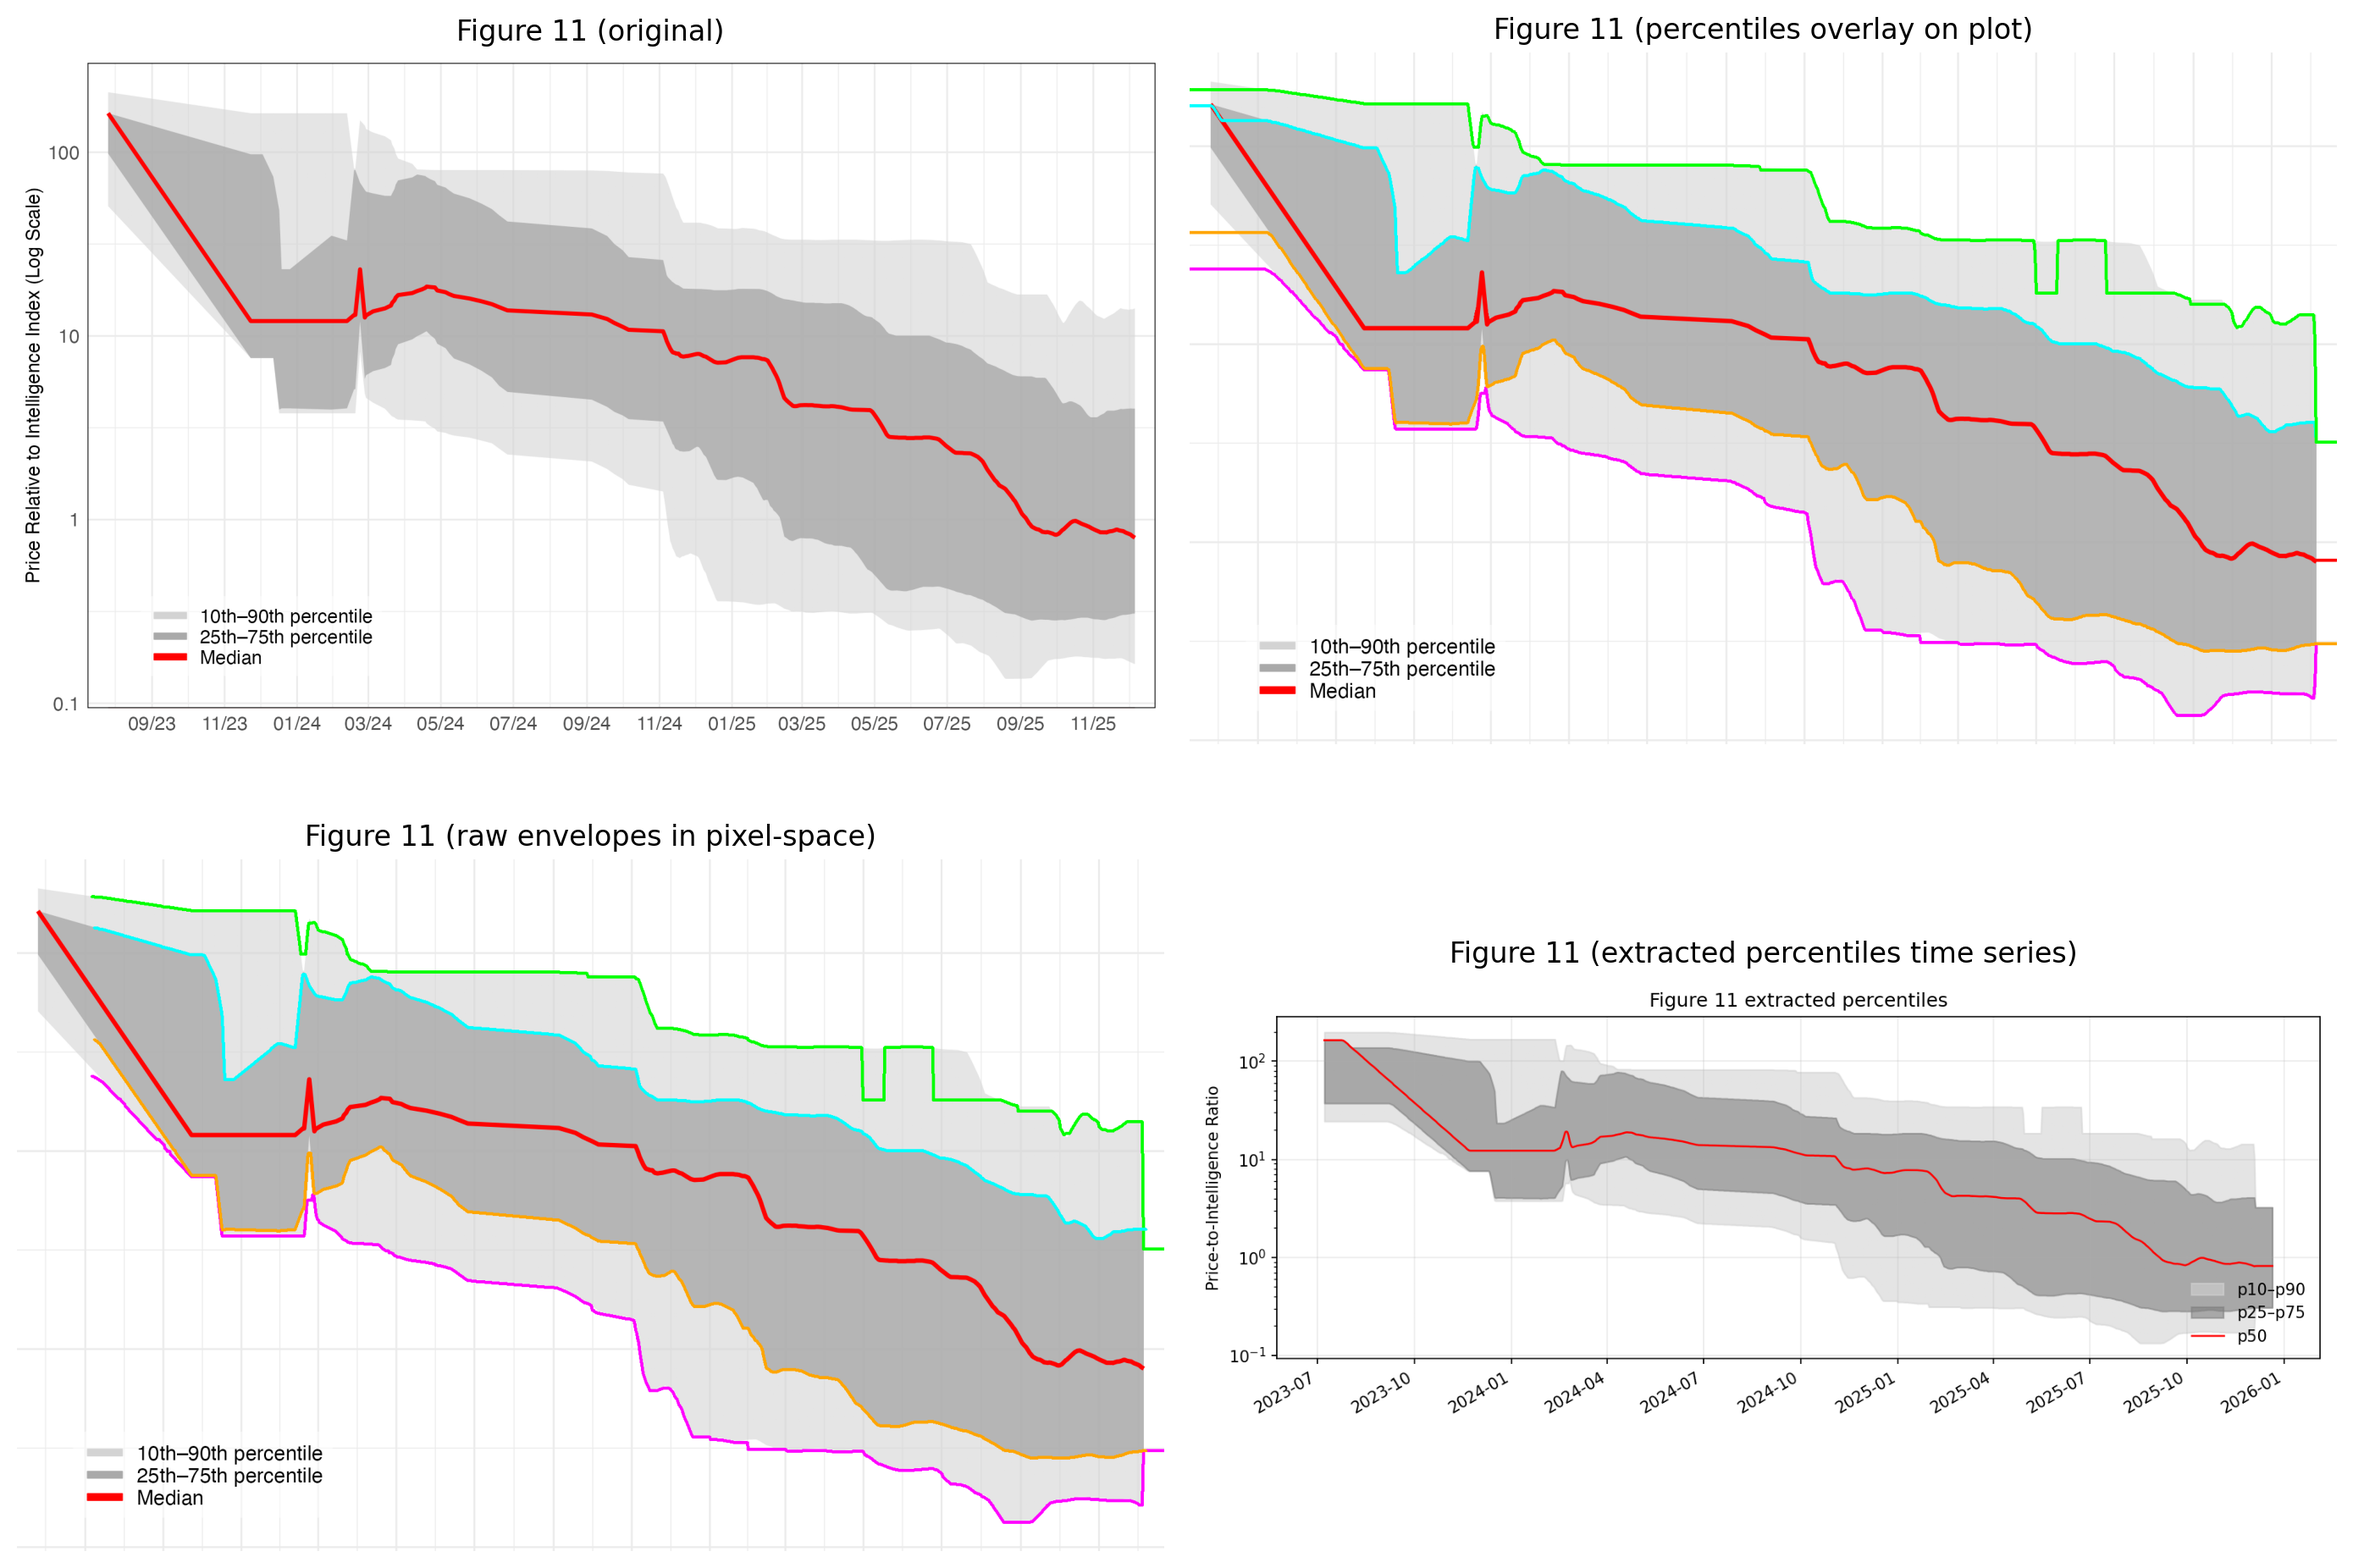
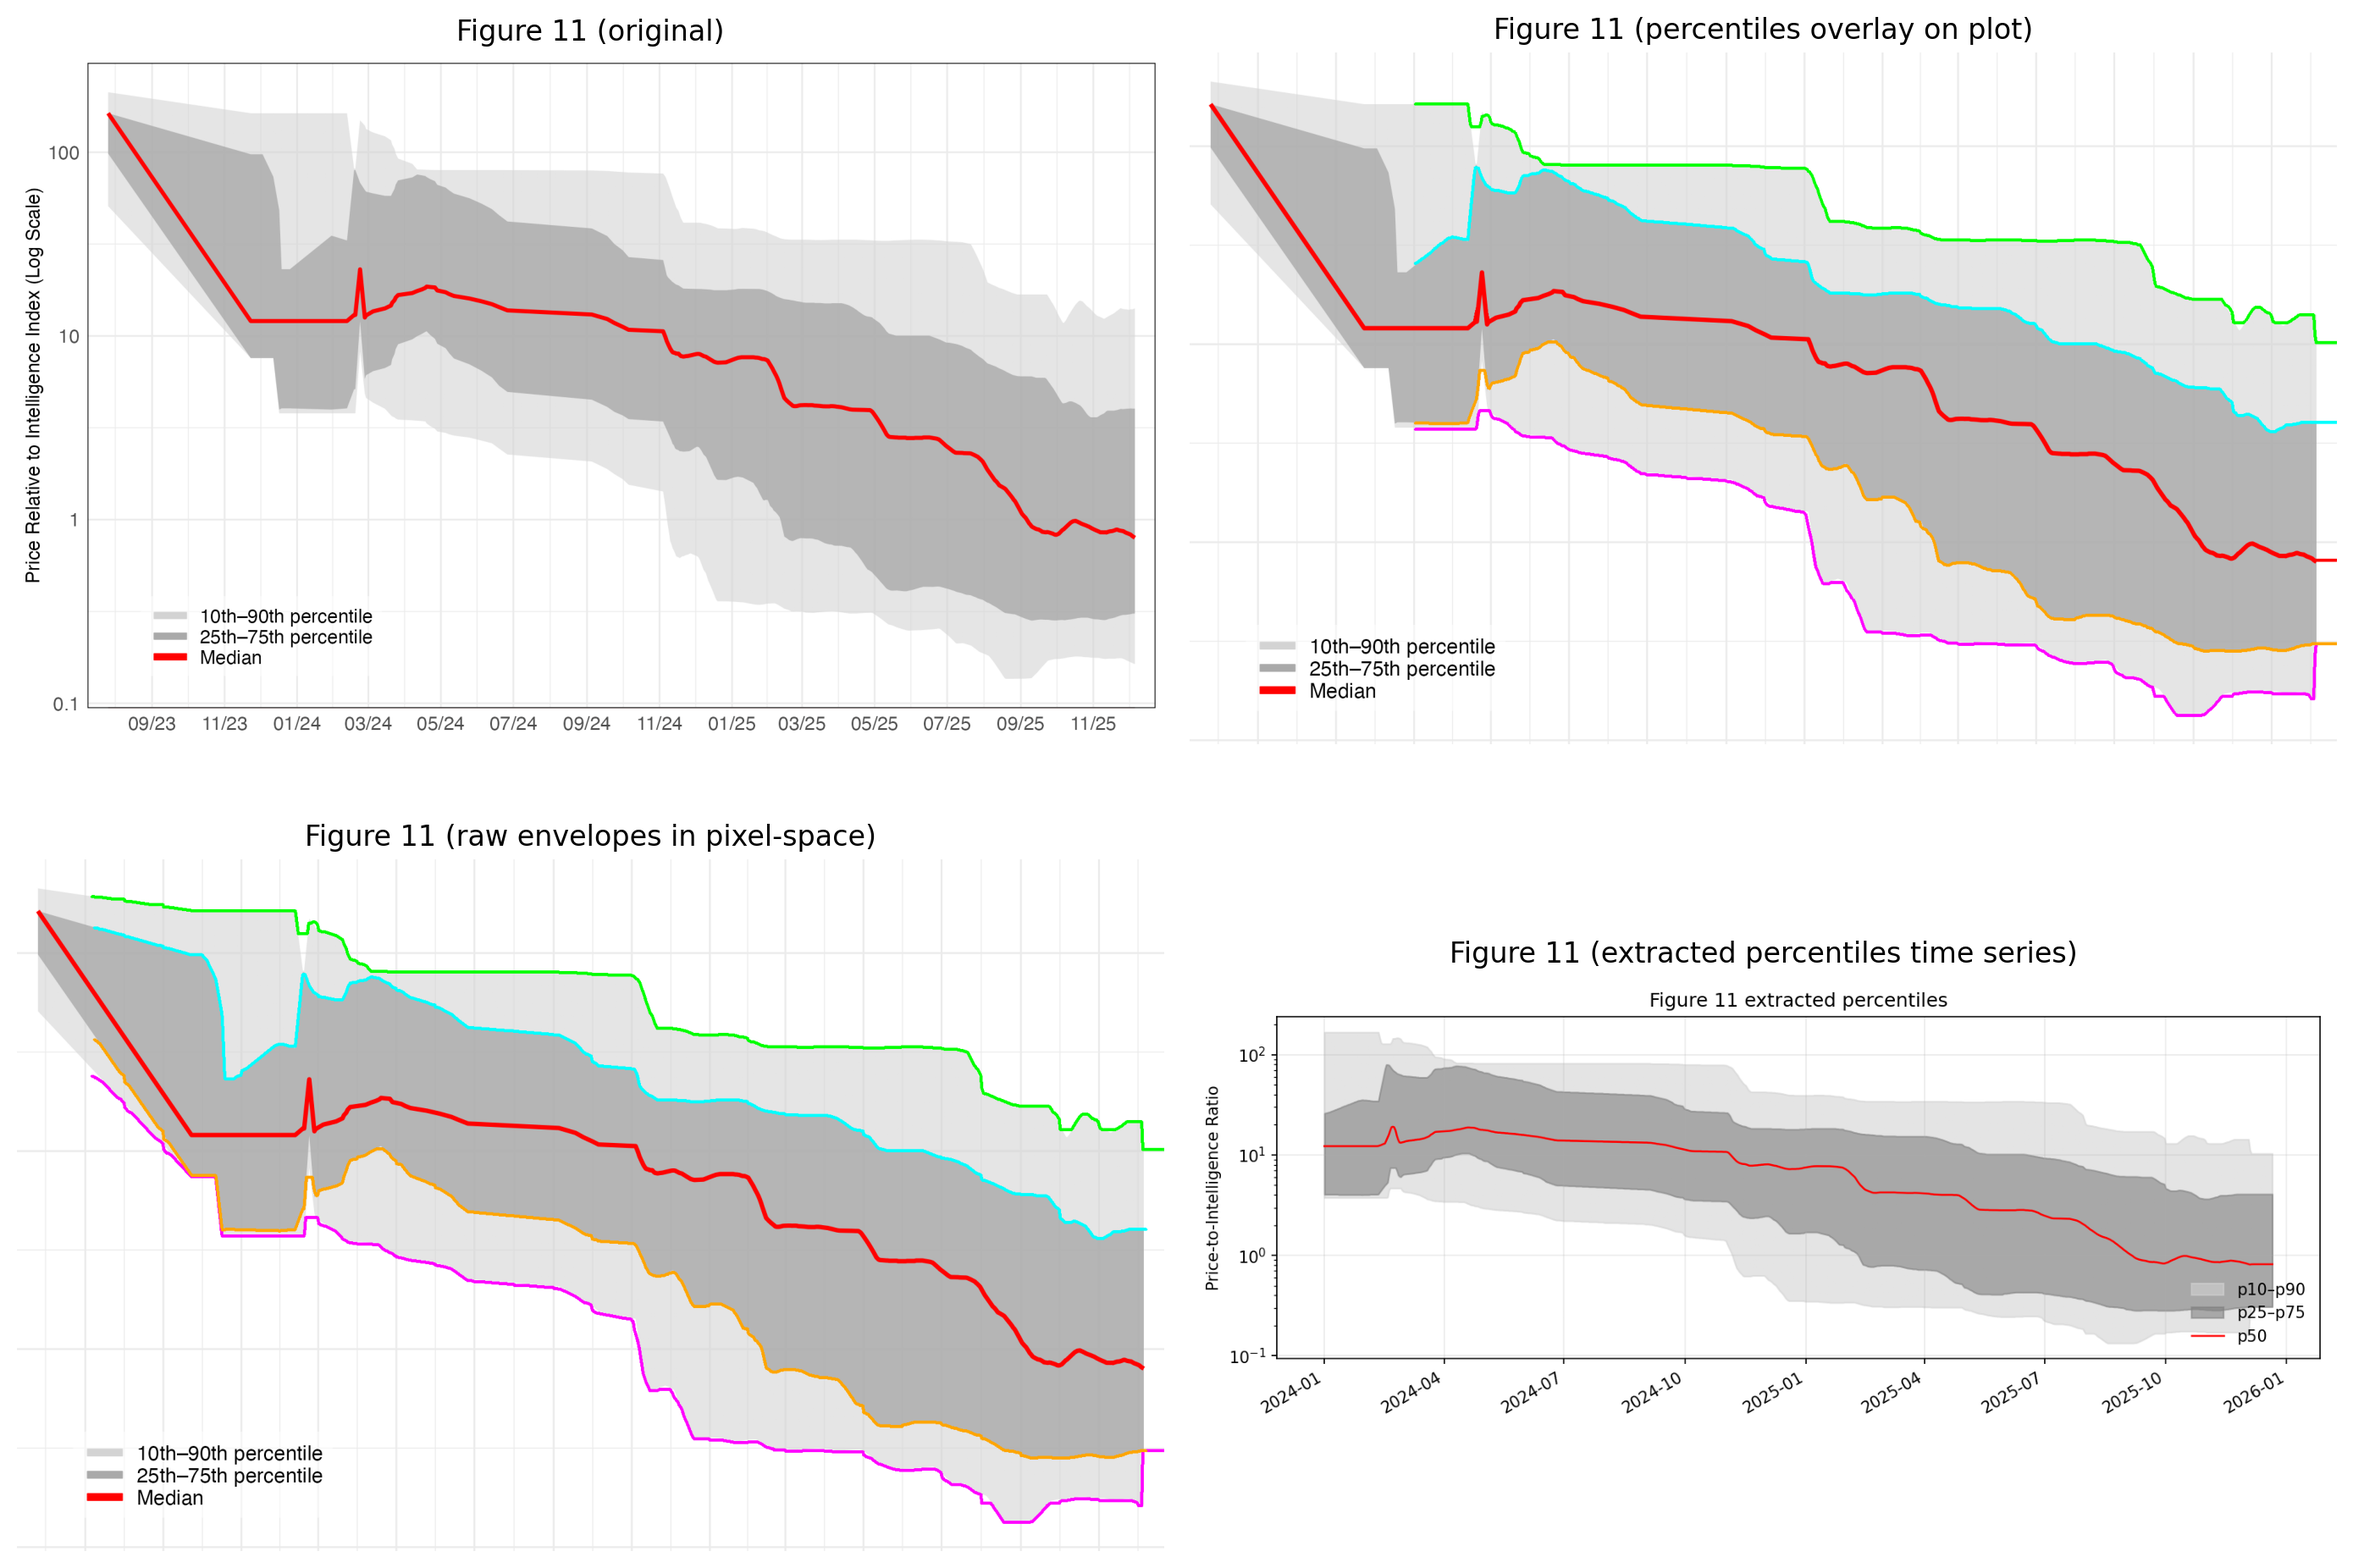
Add run_pipeline.sh to regenerate all outputs from PDF
- Single entrypoint script that runs the full extraction and analysis pipeline
- Extracts figures 5, 6, 11, 15 with diagnostics
- Runs verification for figures 11 and 15
- Generates all derived outputs (model age, capability age, robustness)
- Creates comparison grids
- Update README to center the pipeline script
- Remove one-off debug images not generated by pipeline

🤖 Generated with [Claude Code](https://claude.com/claude-code)

diff --git a/README.md b/README.md
@@ -21,30 +21,36 @@ Dependencies are also listed in `pyproject.toml`.
 
 ## Quick start
 
-Figure 15 red median (token-weighted intelligence median):
+**Run the full pipeline** to regenerate all outputs from the PDF:
 
 ```bash
-source .venv/bin/activate
-python extract_figure15_red_timeseries.py --figure 15 --pdf LLM_Demand.pdf --outdir out
-python verify_figure15_percentiles.py --pdf LLM_Demand.pdf --outdir out
+./run_pipeline.sh
 ```
 
-Figure 11 percentiles (price-to-intelligence ratio, log y-axis):
+This extracts all figures (5, 6, 11, 15), runs verification, and generates all derived outputs including the main capability age plot. Outputs go to `out/`.
 
+Options: `--pdf PATH` (default: `LLM_Demand.pdf`), `--outdir PATH` (default: `out`), `--python PATH` (default: `.venv/bin/python`).
+
+### Individual steps
+
+Figure 15 percentiles:
 ```bash
-source .venv/bin/activate
-python extract_figure15_red_timeseries.py --figure 11 --pdf LLM_Demand.pdf --outdir out --percentiles
-python verify_figure11_percentiles.py --pdf LLM_Demand.pdf --outdir out
+.venv/bin/python extract_figure15_red_timeseries.py --figure 15 --percentiles
+.venv/bin/python verify_figure15_percentiles.py
 ```
 
-Note: Figure 11’s pre-2024 region is not reliably extractable from the embedded raster; the script
-therefore hard-cuts the exported Figure 11 percentile time series to start at `2024-01-01` (01/24).
+Figure 11 percentiles:
+```bash
+.venv/bin/python extract_figure15_red_timeseries.py --figure 11 --percentiles
+.venv/bin/python verify_figure11_percentiles.py
+```
 
-Run regression/sanity checks (keeps Figure 15 behavior from breaking as Figure 11 logic evolves):
+Note: Figure 11's pre-2024 region is not reliably extractable; the script hard-cuts the exported series to start at `2024-01-01`.
+
+### Smoke tests
 
 ```bash
-source .venv/bin/activate
-python smoke_test.py
+.venv/bin/python smoke_test.py
 ```
 
 ## How the extraction works (high level)
